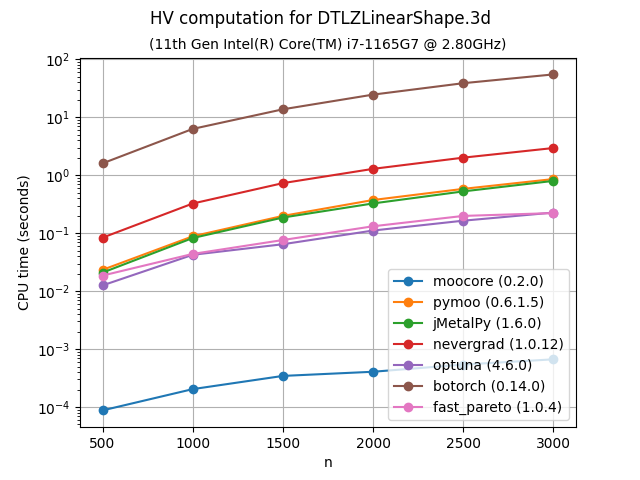
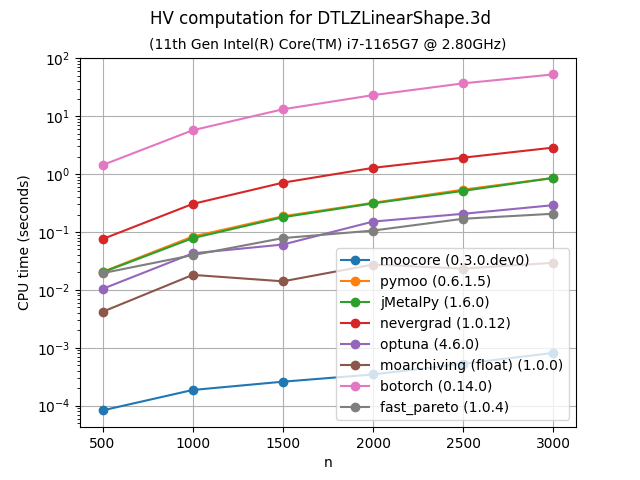
python/ Add moarchiving to the HV benchmarks.

diff --git a/python/benchmarks/bench_hv.py b/python/benchmarks/bench_hv.py
@@ -19,6 +19,11 @@ from jmetal.core.quality_indicator import HyperVolume as jmetal_HV
 from nevergrad.optimization.multiobjective import HypervolumeIndicator as ng_HV
 from fast_pareto import hypervolume as fp_hv
 from optuna._hypervolume import compute_hypervolume as optuna_hv
+from moarchiving import get_mo_archive as moarch_get_mo_archive
+
+# FIXME: How to test both float and Fractions?
+moarch_get_mo_archive.hypervolume_computation_float_type = float
+moarch_get_mo_archive.hypervolume_final_float_type = float
 # from trieste.acquisition.multi_objective import Pareto as trieste_Pareto
 # import tensorflow as tf
 
@@ -72,6 +77,9 @@ for name in names:
         "optuna": lambda z, ref=ref: optuna_hv(
             z, reference_point=ref, assume_pareto=False
         ),
+        "moarchiving (float)": lambda z, ref=ref: float(
+            moarch_get_mo_archive(z, reference_point=ref).hypervolume
+        ),
         "botorch": lambda z,
         hv=botorch_HV(ref_point=torch.from_numpy(-ref)): hv.compute(z),
         "fast_pareto": lambda z, ref=ref: fp_hv(
@@ -82,6 +90,9 @@ for name in names:
     if dim >= 6:
         del benchmarks["nevergrad"]
         del benchmarks["optuna"]
+    if dim >= 5:
+        # Only supports 2D, 3D and 4D
+        del benchmarks["moarchiving (float)"]
     if dim >= 4:
         ## Trieste is hundreds of times slower than botorch. It is so slow that
         ## we cannot run the benchmark with the initial value of 500 points.

diff --git a/python/doc/source/benchmarks.inc.rst b/python/doc/source/benchmarks.inc.rst
@@ -1,7 +1,7 @@
 Benchmarks
 ==========
 
-The following plots compare the performance of `moocore`_, `pymoo`_, `BoTorch`_, `DESDEO`_, `paretoset`_, `Nevergrad`_, `jMetalPy`_, `seqme`_, `fast-pareto`_ and `Optuna`_.  Other Python packages are not included in the comparison because they are based on these packages for the functionality benchmarked, so they are **at least as slow** as them. For example `Xopt`_ and `BoFire`_ use `BoTorch`_, `pysamoo`_ is an extension of `pymoo`_, `DESDEO`_ already uses `moocore`_ for hypervolume and other quality metrics, and most of the multi-objective functionality of `DEAP`_ is shared by `pymoo`_.  We do not compare with the Bayesian optimization toolbox `trieste`_, because it is much slower than `BoTorch`_ and too slow to run the benchmarks in a reasonable time.
+The following plots compare the performance of `moocore`_, `pymoo`_, `BoTorch`_, `DESDEO`_, `paretoset`_, `Nevergrad`_, `jMetalPy`_, `seqme`_, `fast-pareto`_, `Optuna`_ and `moarchiving`_.  Other Python packages are not included in the comparison because they are based on these packages for the functionality benchmarked, so they are **at least as slow** as them. For example `Xopt`_ and `BoFire`_ use `BoTorch`_, `pysamoo`_ is an extension of `pymoo`_, `DESDEO`_ already uses `moocore`_ for hypervolume and other quality metrics, and most of the multi-objective functionality of `DEAP`_ is shared by `pymoo`_.  We do not compare with the Bayesian optimization toolbox `trieste`_, because it is much slower than `BoTorch`_ and too slow to run the benchmarks in a reasonable time.
 
 Not all packages provide the same functionality. For example, `pymoo`_ does not provide the :ref:`epsilon indicator <epsilon_metric>` whereas `jMetalPy`_ does not provide the :ref:`IGD+ indicator <igd_hausdorf>`. `BoTorch`_ provides neither of them. `paretoset`_ and `fast-pareto`_ only identify nondominated points.
 
@@ -91,7 +91,7 @@ Exact computation of hypervolume
 
 The following plots compare the speed of computing the :ref:`hypervolume indicator <hypervolume_metric>` in 3D, 4D, 5D and 6D. As the plots show, `moocore`_ is 100 times faster than the other packages and 1000 times faster than `BoTorch`_ and, by extension, `Xopt`_ and `BoFire`_.
 
-For 3D, `Optuna`_ uses a :math:`O(n^2)` algorithm, while `moocore`_ uses the best-known :math:`O(n\log n)` one, so the gap between the two will get significantly larger with a larger number of points than those tested here.  `BoTorch`_ and `fast-pareto`_ are not included for more than 3 objectives because **they are tens of thousands of times slower** than `moocore`_.  `Nevergrad`_ and `Optuna`_ are not included for more than 5 objectives for the same reason.
+For 3D, `Optuna`_ uses a :math:`O(n^2)` algorithm, while `moocore`_ uses the best-known :math:`O(n\log n)` one, so the gap between the two will get significantly larger with a larger number of points than those tested here. `moarchiving`_ uses the same algorithms as `moocore`_ for 3D and 4D, but a pure Python implementation, so it is still 10-100 times slower than `moocore`_'s C implementation.  `BoTorch`_ and `fast-pareto`_ are not included for more than 3 objectives because **they are tens of thousands of times slower** than `moocore`_.  `Nevergrad`_ and `Optuna`_ are not included for more than 5 objectives for the same reason.
 
 
 |hv_bench-DTLZLinearShape-3d| |hv_bench-DTLZLinearShape-4d|
@@ -217,3 +217,4 @@ The following plots compare the speed of computing the :ref:`epsilon indicator  
 .. _pysamoo: https://anyoptimization.com/projects/pysamoo/
 .. _seqme: https://seqme.readthedocs.io
 .. _trieste: https://secondmind-labs.github.io/trieste
+.. _moarchiving: https://cma-es.github.io/moarchiving/

diff --git a/python/doc/source/whatsnew/index.rst b/python/doc/source/whatsnew/index.rst
@@ -4,11 +4,17 @@
 What's new
 **********
 
+Version 0.3.0 (development)
+---------------------------
+
+- `moarchiving <https://cma-es.github.io/moarchiving/>`_ is now included in the benchmarks.
+
+
 Version 0.2.0 (10/01/2026)
 ---------------------------
 
 - Requires ``numpy>=1.24``.
-- Optuna is now included in the benchmarks.
+- `Optuna <https://optuna.org>`_ is now included in the benchmarks.
 - New :ref:`bench-ndsort` benchmarks.
 - :func:`~moocore.pareto_rank` is faster in 3D.
 - HV3D+ is slightly faster with repeated coordinates (:issue:`41`).
